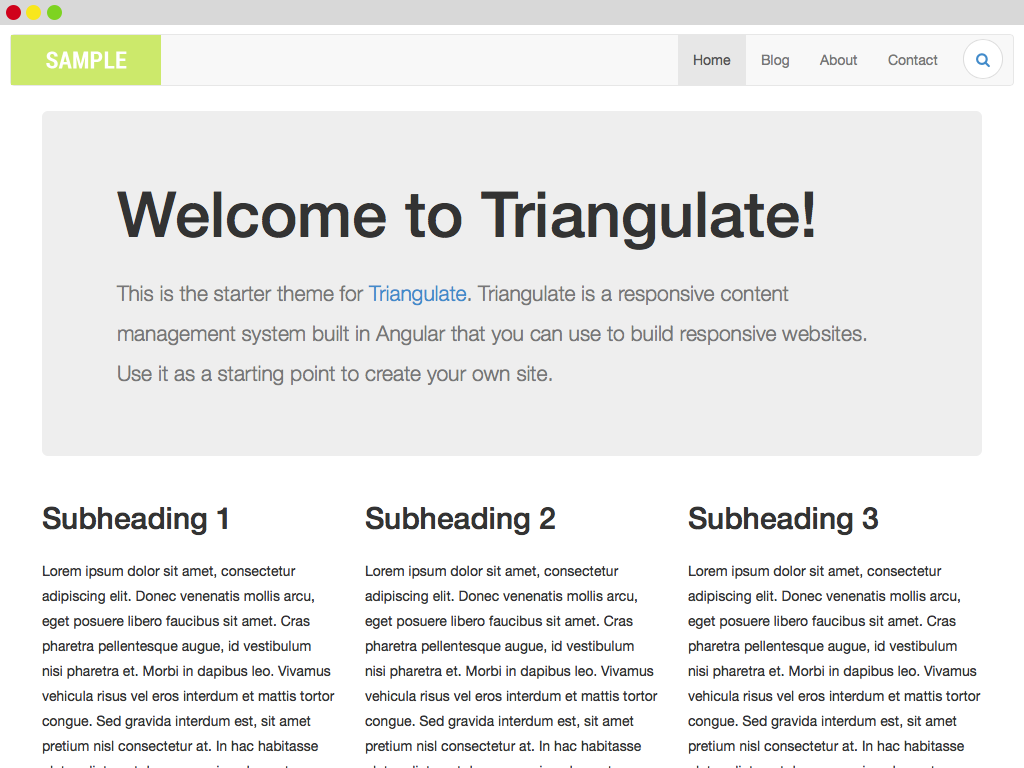
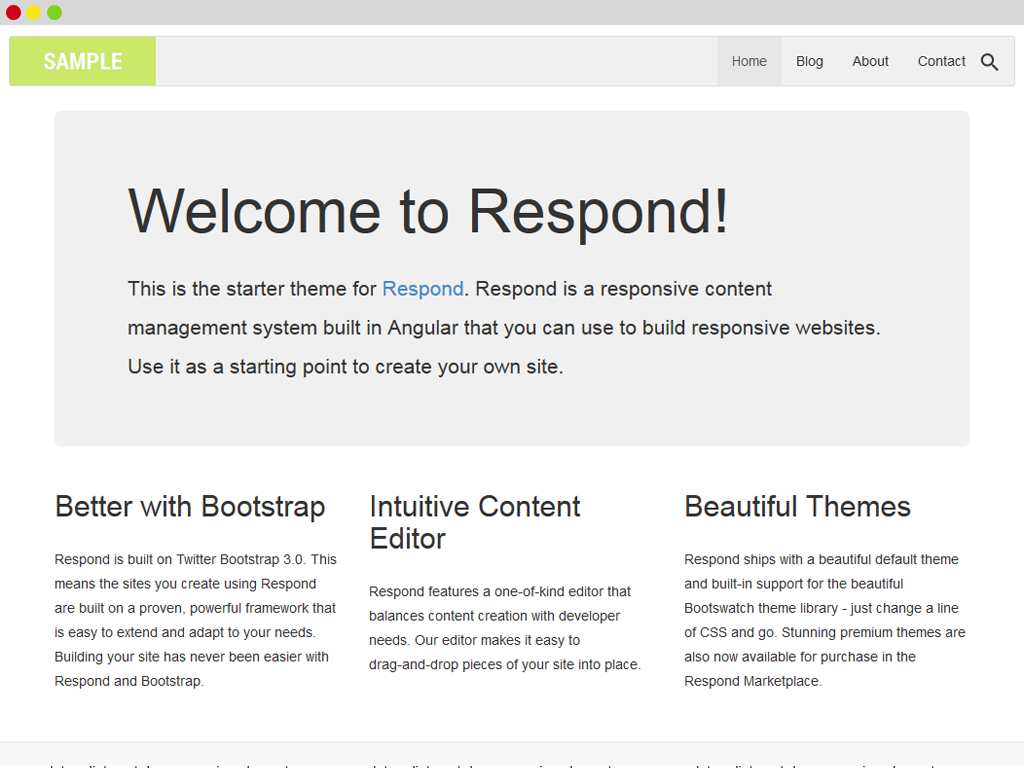
Change outdated language on home page, update screenshot

diff --git a/themes/simple/pages/home.html b/themes/simple/pages/home.html
@@ -14,9 +14,9 @@
     </p>
   </div>
   <div class="col col-md-4">
-    <h2 id="h2-3">Make Money with Respond</h2>
+    <h2 id="h2-3">Intuitive Content Editor</h2>
     <p id="p-4">
-      Respond has built-in support for subscription billing using Stripe and a full featured e-commerce cart built-in to your sites. So whether you want to make money selling websites, or build a site to sell a product or service, Respond has you covered.
+      Respond features a one-of-kind editor that balances content creation with developer needs.  Our editor makes it easy to drag-and-drop pieces of your site into place.
     </p>
   </div>
   <div class="col col-md-4">
